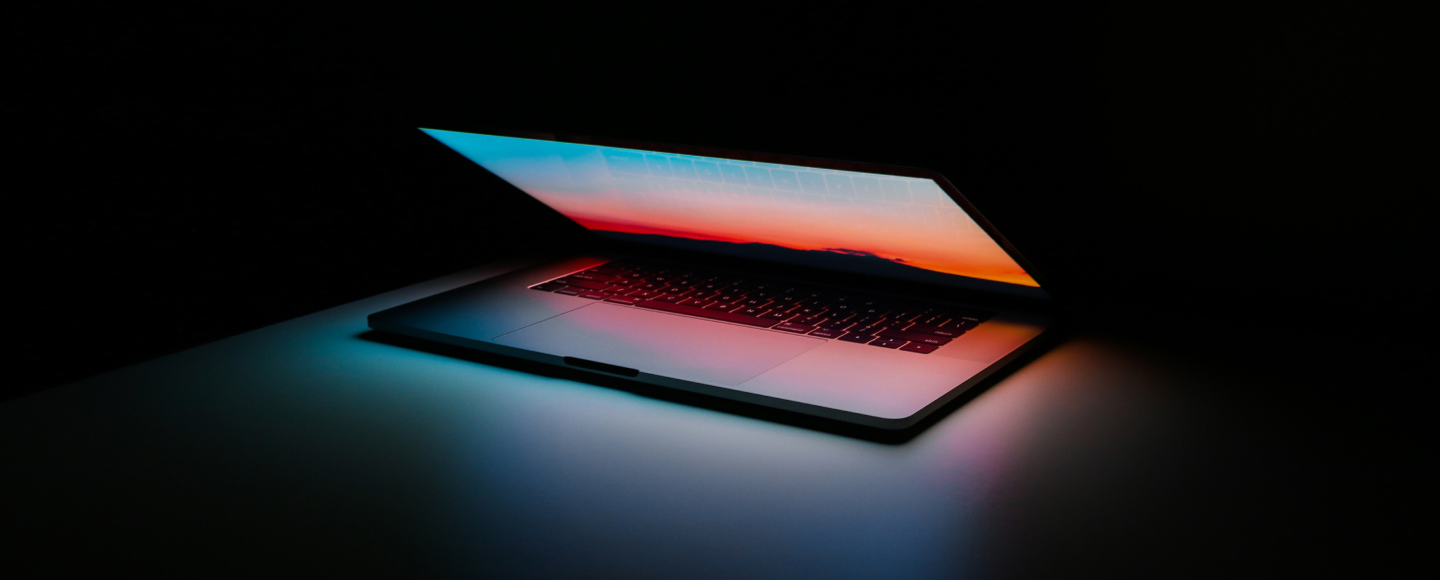
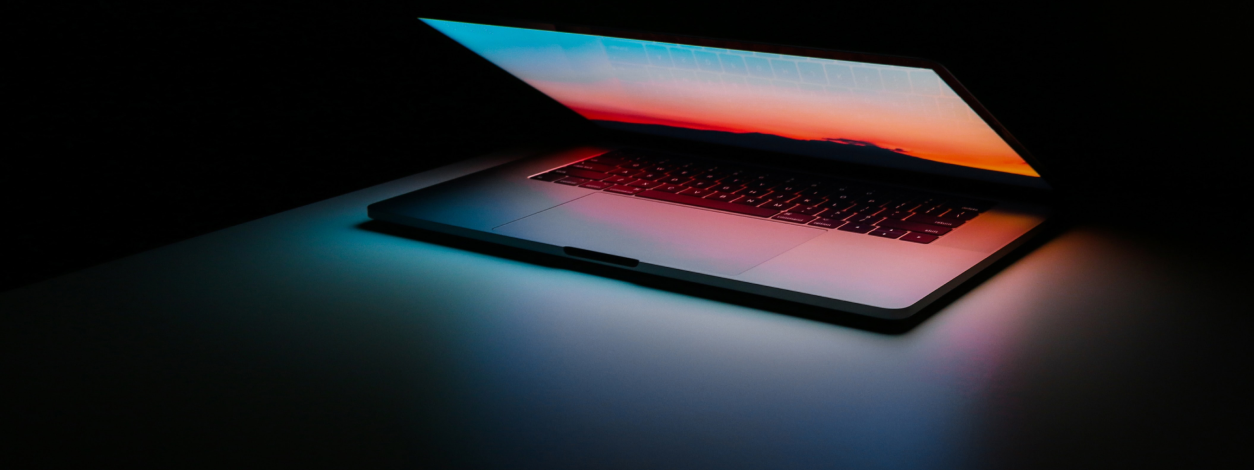
Добавил анимации

diff --git a/css/portfolio-style.css b/css/portfolio-style.css
@@ -25,6 +25,10 @@ a{
     color: #ffffff;
     background-color: #000000;
 }
+@keyframes nav{
+    from {transform : translateY(-1000%);}
+    to {transform : translateY(0%);}
+}
 .nav-row{
    display: flex;
    flex-wrap: wrap;
@@ -32,6 +36,7 @@ a{
    align-items: center;
    column-gap: 30px;
    row-gap: 20px;  
+   animation: nav 3s;
 }
 .logo{
     color: #ffffff;
@@ -66,24 +71,33 @@ a{
     color: #ffffff;
     background: url(../img/background.png), #000000;
     background-repeat: no-repeat;  
-    background-position: right 0% top 25%; 
+    background-position: right 30% top 99%;
     min-height: 568px;
+    
 }
+/* @keyframes header-box{
+    from {opacity: 0;}
+    to {opacity: 1;}
+}  */
 .header-title{
     padding-top: 100px;
     font-size: 30px;
     margin-bottom: 30px;
+    animation: header-box 3s;
 }
 .header-title strong{
     font-size: 60px;
     word-spacing: -0.5px;
+    animation: header-box 3s;
 }
 .header-title span{
-    color: #017086;    
+    color: #017086;  
+    animation: header-box 3s;
 }
 .header-text{
     margin-bottom: 50px;
     font-size: 16px;
+    animation: header-box 3s;
 }
 .header-btn{
     padding: 20px 40px 20px 80px;
@@ -96,7 +110,12 @@ a{
     transition: 0.2s ease-in;
     background: url(../img/github.png);
     background-repeat: no-repeat;
-    background-position: left 15% top 50%
+    background-position: left 15% top 50%;
+    animation: header-btn 2s;
+}
+@keyframes header-btn{
+    from {padding: 0;}
+    to {padding: 20px 40px 20px 80px;}
 }
 .header-btn:hover{
     background: url(../img/github2.png), #017086;
@@ -133,7 +152,7 @@ a{
 }
 .about_text h2{
     font-size: 30px;
-    color:#017086;   
+    color:#6363db;   
 }
 .about_text p{
     margin-top: 10px;
@@ -206,7 +225,7 @@ row-gap: 20px;
 
 
 
-/* .service{
+.service{
     margin: auto;
     height: 608px;
     max-width: 1437px;

diff --git a/index.html b/index.html
@@ -56,8 +56,8 @@
                 </div>
             </div>
         </section>
-        <section class="service none">
-            <h2 class="fixed-container">Service
+        <section class="service">
+            <h2 class="container">Service
                 <h4 class="fixed-container">What am I doing</h4>
             </h2>
             
